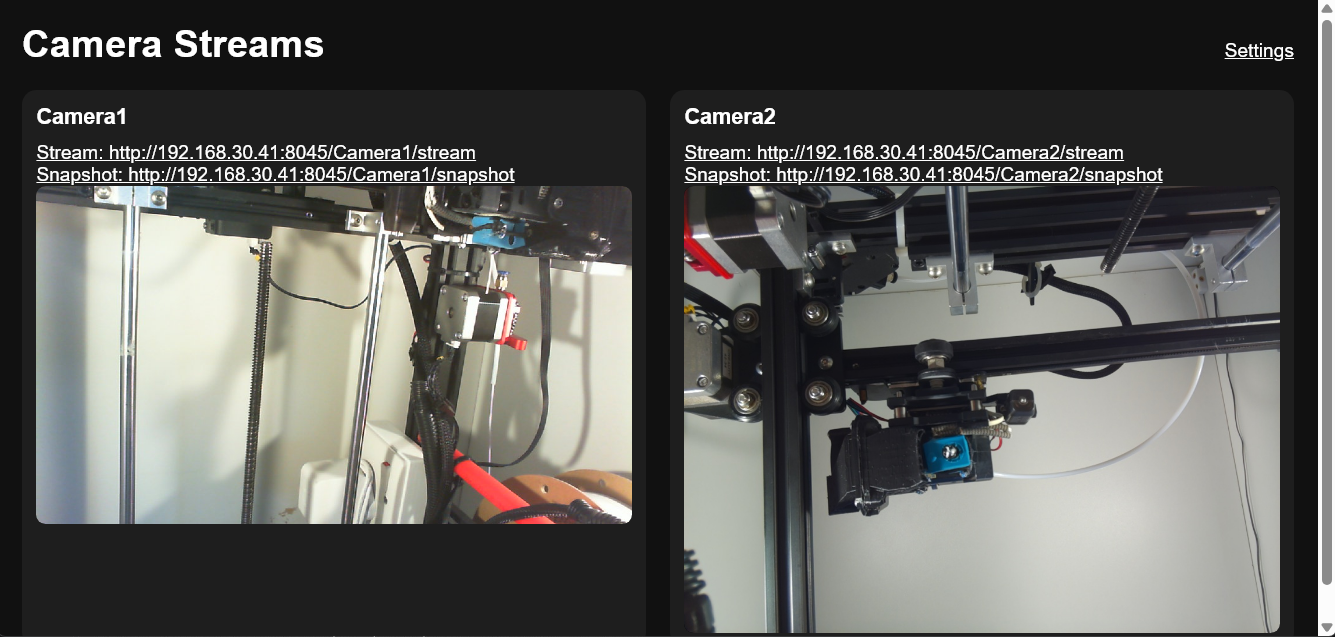
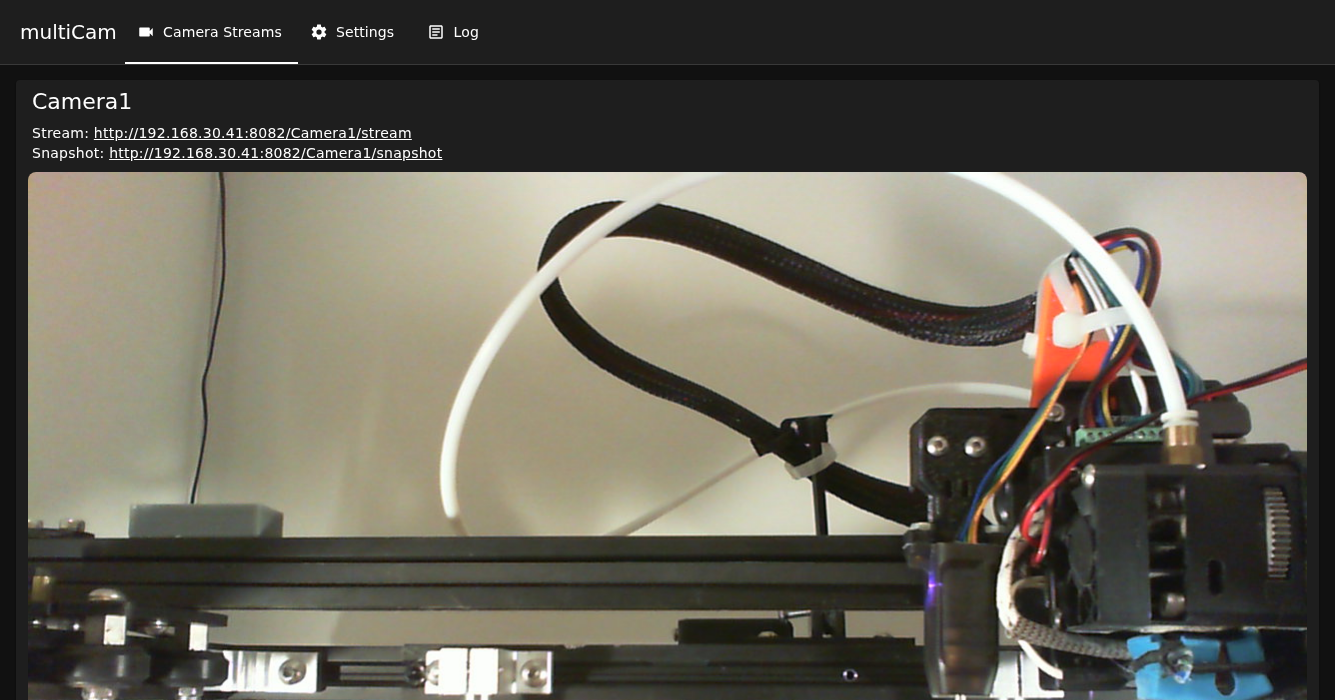
docs/1.7: screenshots of the current pages (streams, settings, log)

diff --git a/docs/1.7/README.md b/docs/1.7/README.md
@@ -165,6 +165,8 @@ browser and follows it as it grows (**Follow** keeps the newest line in view;
 scrolling up pauses it). **Download** saves the whole file. After a restart it
 shows the new log. A very long log starts at its end - Download has all of it.
 
+![Log page](images/log.png)
+
 The log shows the IP address and port in use, and the URLs of the camera
 streams page, the settings page and each camera's stream and snapshot. See
 [Finding the IP address and port](#finding-the-ip-address-and-port).
